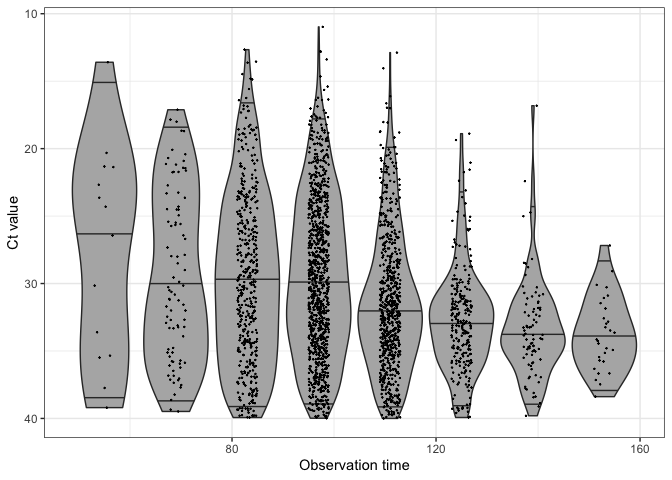
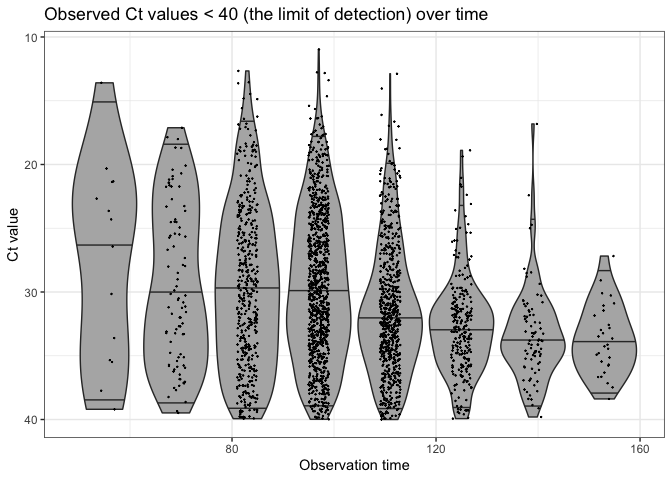
Added function to simulate Ct values over time since infection for readme

diff --git a/README.md b/README.md
@@ -110,13 +110,89 @@ across time points.
 ``` r
 data(example_ct_data)
 ## Plot only detectable Ct values
-ggplot(example_ct_data %>% filter(ct < 40)) + 
+p_ct_data <- ggplot(example_ct_data %>% filter(ct < 40)) + 
   geom_violin(aes(x=t,group=t,y=ct),scale="width",fill="grey70",draw_quantiles=c(0.025,0.5,0.975)) + 
   geom_jitter(aes(x=t,y=ct),size=0.1,width=2,height=0) + 
   scale_y_continuous(trans="reverse") +
   theme_bw() +
   ylab("Ct value") +
-  xlab("Observation time")
+  xlab("Observation time") +
+  ggtitle("Observed Ct values < 40 (the limit of detection) over time")
+p_ct_data
 ```
 
 ![](README_files/figure-gfm/unnamed-chunk-3-1.png)<!-- -->
+
+``` r
+p_detectable_data <- example_ct_data %>% 
+  mutate(detect=ct < 40) %>% 
+  group_by(t) %>% 
+  summarize(prev=sum(detect)/n()) %>% 
+  ggplot() + geom_point(aes(x=t,y=prev)) + 
+  theme_bw() + 
+  scale_y_continuous(limits=c(0,0.5)) + 
+  ylab("Percent detectable") +
+  ggtitle("Proportion of samples with Ct values < 40") +
+  xlab("Observation time") 
+```
+
+    ## `summarise()` ungrouping output (override with `.groups` argument)
+
+``` r
+p_detectable_data
+```
+
+![](README_files/figure-gfm/unnamed-chunk-4-1.png)<!-- -->
+
+A script to generate these data can be found in the `extdata` folder,
+which is easiest to find
+[here](https://github.com/jameshay218/virosolver/tree/master/man/inst/extdata).
+
+## Ct model
+
+A key part of the model is the assumed viral kinetics curve. This
+describes the mode and variation of Ct values on each day post
+infection. This is the population-level distribution – it does not track
+individual-level viral kinetics curve, so the variation about the mode
+captures *all* variation arising from sampling variation,
+individual-level heterogeneity etc. It is *CRUCIAL* to check the
+parameters underpinning this model when applying `virosolver` to a new
+dataset, as this calibration will be entirely dependent on the
+population being tested and the PCR instrument used. We assume the
+following Ct model for this simulation:
+
+``` r
+data(example_seir_partab)
+pars <- example_seir_partab$values
+names(pars) <- example_seir_partab$names
+
+## Solve the Ct model over a range of times since infection (referred to as "ages")
+test_ages <- seq(0,50,by=1)
+
+## This gives the modal Ct value
+cts <- viral_load_func(pars, test_ages)
+
+p_ct_model <- ggplot(data.frame(ct=cts,t=test_ages)) + 
+  geom_line(aes(x=t,y=ct)) + 
+  scale_y_continuous(trans="reverse",
+                     limits=c(40,0)) +
+  theme_bw() +
+  ylab("Modal Ct value") +
+  xlab("Days since infection")
+p_ct_model
+```
+
+![](README_files/figure-gfm/unnamed-chunk-5-1.png)<!-- -->
+
+``` r
+## Note that this model does not solve for t=0, as it is always assumed that no one is detectable 0 days post infection
+prop_detect <- prop_detectable(test_ages[test_ages > 0],pars, cts[test_ages > 0])
+p_ct_model_detectable <- ggplot(data.frame(p=c(0,prop_detect),t=test_ages)) + 
+  geom_line(aes(x=t,y=p)) + 
+  theme_bw() +
+  ylab("Proportion of infections still detectable") +
+  xlab("Days since infection")
+p_ct_model_detectable
+```
+
+![](README_files/figure-gfm/unnamed-chunk-6-1.png)<!-- -->
